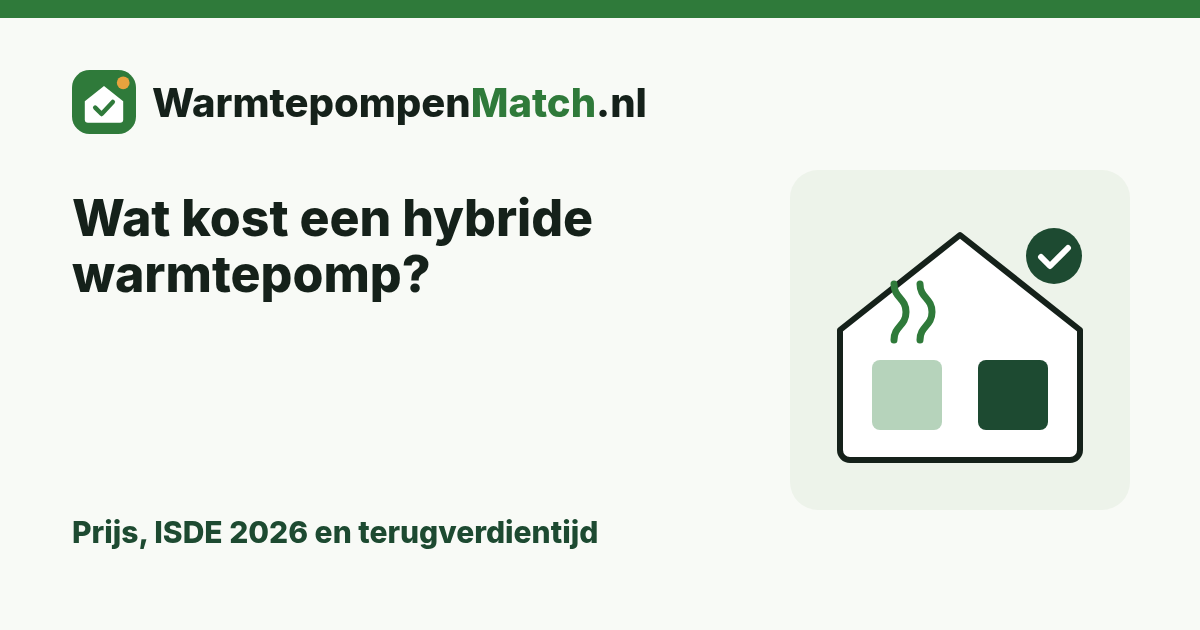
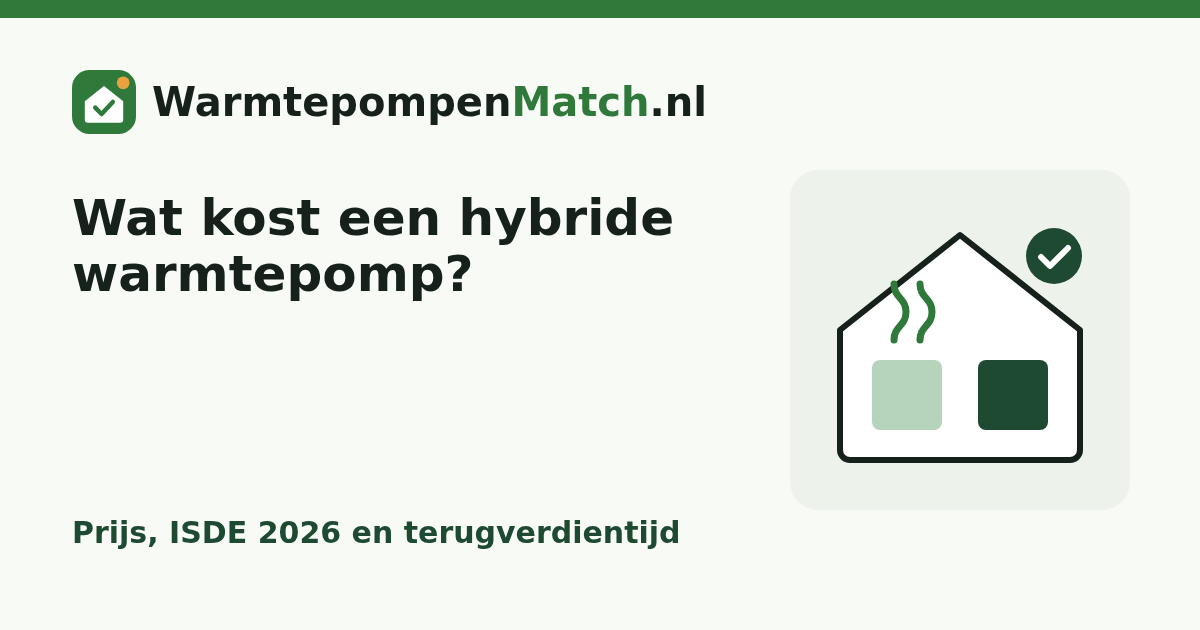
Gasprijs rekenhulp naar Milieu Centraal € 1,37/m³ (gecontroleerd 20-10-2026) en teksten daarop aangepast
- src/lib/kosten.js: GASPRIJS 1.39 -> 1.37 met bron-URL Milieu Centraal; stroom blijft € 0,21 (zelfde bron)
- Uitkomsten: hybride € 606 -> € 592 per jaar, 6,7 -> 6,9 jaar; all-electric (950 m³) € 1.019 -> € 1.000, 8,8 -> 9,0 jaar
- Terugverdientijd-gids: methodetekst en FAQ op de MC-prijzen, '(onze rekensom)' bij de jaren; rekenhulp-methode idem
- Hybride of all-electric: besparing 'in ons rekenvoorbeeld', bijgewerkt 20-10
- Hybride-kosten-gids: '(onze rekensom)' direct bij 6,8 / 10,3 / 9,0 jaar en zin over de rekenhulp (€ 592, 6,9 jaar)
- jaarTekst en jaren-weergave altijd met één decimaal (9,0 i.p.v. 9)
- Tests: GASPRIJS 1,37, stroom 0,21, hybride € 592 / 6,9 jaar, all-electric € 1.000 / 9,0 jaar
- scripts/images.py terug naar DejaVu Sans; alleen og/hybride-warmtepomp-kosten.png opnieuw gemaakt

Changed region(s): [[0.0617, 0.3016, 0.5858, 0.4825], [0.0617, 0.8143, 0.5858, 0.8746], [0.1233, 0.1206, 0.5858, 0.2111]]

diff --git a/src/lib/kosten.js b/src/lib/kosten.js
@@ -8,10 +8,11 @@ export const BRON = {
   rvoWp: { naam: 'RVO: ISDE voor een warmtepomp', url: 'https://www.rvo.nl/subsidies-financiering/isde/woningeigenaren/warmtepomp' },
   rvo2027: { naam: 'RVO: ISDE, wat wijzigt er in 2027', url: 'https://www.rvo.nl/subsidies-financiering/isde/isde-wat-wijzigt-er-2027' },
 };
-// Prijzen afgeleid uit de eurobedragen in de rekenvoorbeelden van Milieu Centraal (hr-ketel tegenover hybride en all-electric).
-// Milieu Centraal noemt elders € 1,37/m³ als verwachting 2026-2040; VerduurzaamMatch gebruikt dat getal met de gepubliceerde besparing (€ 600).
-// De stroomprijs hier (€ 0,21) is ook afgeleid uit die voorbeelden. ThuisaccuMatch rekent met CBS september 2026 (~€ 0,26); beide bronnen zijn geldig.
-export const GASPRIJS = 1.39; // € per m³
+// Gas- en stroomprijs van Milieu Centraal (Kenniscentrum Duurzaam Leven): de verwachte gemiddelden voor 2026-2040,
+// € 1,37 per m³ gas en 21 cent per kWh, uit de toelichting 'Gasprijs en stroomprijs besparingen' op
+// https://www.milieucentraal.nl/energie-besparen/duurzaam-verwarmen-en-koelen/hybride-warmtepomp/ (gecontroleerd 20-10-2026).
+// ThuisaccuMatch rekent voor stroom met CBS september 2026 (~€ 0,26); beide bronnen zijn geldig.
+export const GASPRIJS = 1.37; // € per m³, Milieu Centraal, gecontroleerd 20-10-2026
 export const STROOMPRIJS = 0.21; // € per kWh
 export const VASTRECHT_GAS = 360; // € per jaar, vervalt als je van het gas af gaat (Milieu Centraal)
 
@@ -44,4 +45,4 @@ export function bereken({ type = 'hybride', gas = 1360, kosten, subsidie, gaspri
   return { type, m3: Math.round(m3), kwh: Math.round(kwh), besparing, kosten: inv, subsidie: sub, netto, jaren };
 }
 export const eur = (n) => '€ ' + Math.round(n).toLocaleString('nl-NL');
-export const jaarTekst = (j) => (j == null ? 'niet terug te verdienen met deze cijfers' : `${String(j).replace('.', ',')} jaar`);
+export const jaarTekst = (j) => (j == null ? 'niet terug te verdienen met deze cijfers' : `${j.toFixed(1).replace('.', ',')} jaar`);

diff --git a/test/logic.test.js b/test/logic.test.js
@@ -2,7 +2,7 @@ import { test } from 'node:test';
 import assert from 'node:assert/strict';
 import { readFileSync } from 'node:fs';
 import { advies, VRAGEN, isolatieVan, compleet } from '../src/lib/match.js';
-import { bereken, isde2026, TYPES } from '../src/lib/kosten.js';
+import { bereken, isde2026, TYPES, GASPRIJS, STROOMPRIJS, jaarTekst } from '../src/lib/kosten.js';
 import { IDS, FEATURES, MERKEN, STERK_IN } from '../src/lib/merken.js';
 import { IDS_PUNTEN, MAX, score, ranglijst, punt, metType } from '../src/lib/checklist.js';
 import { uitgaand, knop, PARTNERLINKS } from '../src/lib/partnerlinks.js';
@@ -21,9 +21,14 @@ test('rekenvoorbeelden Milieu Centraal: besparing ~€ 600 (hybride) en ~€ 1.0
   const h = bereken({ type: 'hybride', gas: 1360 });
   assert.equal(h.m3, 680); assert.equal(h.kwh, 1615); assert.ok(Math.abs(h.besparing - 600) <= 30, String(h.besparing));
   assert.equal(h.netto, 4075); assert.ok(h.jaren > 6 && h.jaren < 7.5);
+  // Prijzen van Milieu Centraal (2026-2040): € 1,37/m³ gas, € 0,21/kWh (gecontroleerd 20-10-2026).
+  assert.equal(GASPRIJS, 1.37); assert.equal(STROOMPRIJS, 0.21);
+  assert.equal(h.besparing, 592); assert.equal(h.jaren, 6.9);
   const ae = bereken({ type: 'allelectric', gas: 950 });
   assert.equal(ae.kwh, 3150); assert.ok(Math.abs(ae.besparing - 1000) <= 40, String(ae.besparing));
   assert.ok(ae.jaren > 8 && ae.jaren < 10);
+  assert.equal(ae.besparing, 1000); assert.equal(ae.jaren, 9);
+  assert.equal(jaarTekst(9), '9,0 jaar'); assert.equal(jaarTekst(6.9), '6,9 jaar');
   assert.equal(bereken({ type: 'luchtlucht' }), null);
   assert.equal(bereken({ type: 'hybride', gas: 0 }).jaren, null);
 });

diff --git a/scripts/images.py b/scripts/images.py
@@ -36,9 +36,6 @@ cards={
 # blogkaarten met kopfoto: kaart -> WebP in src/assets/img/blog
 photo={'blog-warmtepomp-offerte-vergelijken':'warmtepomp-offerte-vergelijken-1200.webp','blog-beste-hybride-warmtepomp':'beste-hybride-warmtepomp-1200.webp'}
 art=f'<svg viewBox="0 0 300 300" width="300" height="300"><path d="M30 140 150 45l120 95v120a10 10 0 0 1-10 10H40a10 10 0 0 1-10-10z" fill="#fff" stroke="{D}" stroke-width="6" stroke-linejoin="round"/><rect x="62" y="170" width="70" height="70" rx="8" fill="{P}"/><rect x="168" y="170" width="70" height="70" rx="8" fill="{G}"/><g fill="none" stroke="{B}" stroke-width="7" stroke-linecap="round"><path d="M84 150c0-14 12-14 12-28s-12-14-12-28"/><path d="M110 150c0-14 12-14 12-28s-12-14-12-28"/></g><circle cx="244" cy="66" r="28" fill="{G}"/><path d="m231 67 9 9 18-18" fill="none" stroke="#fff" stroke-width="6" stroke-linecap="round" stroke-linejoin="round"/></svg>'
-# Merkfont Inter (src/assets/fonts), zoals op de site.
-FONT=''.join(f"@font-face{{font-family:Inter;font-weight:{w};src:url('file://{os.path.abspath(f'src/assets/fonts/inter-{w}.woff2')}')}}" for w in (400,600,800))
-FF="Inter,'DejaVu Sans',sans-serif"
 tmp=tempfile.mkdtemp()
 def shot(html,out,w,h):
     f=os.path.join(tmp,'p.html');open(f,'w').write(html)
@@ -48,7 +45,7 @@ import sys
 only=set(sys.argv[1:])  # optioneel: alleen deze kaarten maken, bv. python3 scripts/images.py blog
 for k,(t,sub) in cards.items():
     if only and k not in only: continue
-    html=f'''<html><head><style>{FONT}</style></head><body style="margin:0;width:1200px;height:630px;background:{BG};font-family:{FF};overflow:hidden">
+    html=f'''<html><body style="margin:0;width:1200px;height:630px;background:{BG};font-family:'DejaVu Sans',sans-serif;overflow:hidden">
 <div style="position:absolute;left:0;top:0;width:1200px;height:18px;background:{B}"></div>
 <div style="position:absolute;left:72px;top:70px;display:flex;align-items:center;gap:16px;font-size:40px;font-weight:700;color:{D}"><div style="width:64px;height:64px">{LOGO}</div><span>Warmtepompen<span style="color:{B}">Match</span>.nl</span></div>
 <div style="position:absolute;left:72px;top:190px;width:700px;font-size:{64 if len(t)<26 else 50}px;line-height:1.12;font-weight:800;color:{D}">{t}</div>
@@ -56,7 +53,7 @@ for k,(t,sub) in cards.items():
 <div style="position:absolute;right:70px;top:170px;background:{S};border-radius:28px;padding:20px">{art}</div></body></html>'''
     if k in photo:
         img='file://'+os.path.abspath('src/assets/img/blog/'+photo[k])
-        html=f'''<html><head><style>{FONT}</style></head><body style="margin:0;width:1200px;height:630px;background:{BG};font-family:{FF};overflow:hidden">
+        html=f'''<html><body style="margin:0;width:1200px;height:630px;background:{BG};font-family:'DejaVu Sans',sans-serif;overflow:hidden">
 <div style="position:absolute;right:0;top:0;width:530px;height:630px;background:url('{img}') 28% center/cover"></div>
 <div style="position:absolute;left:0;top:0;width:670px;height:630px;background:{BG}"></div>
 <div style="position:absolute;left:0;top:0;width:1200px;height:18px;background:{B}"></div>
